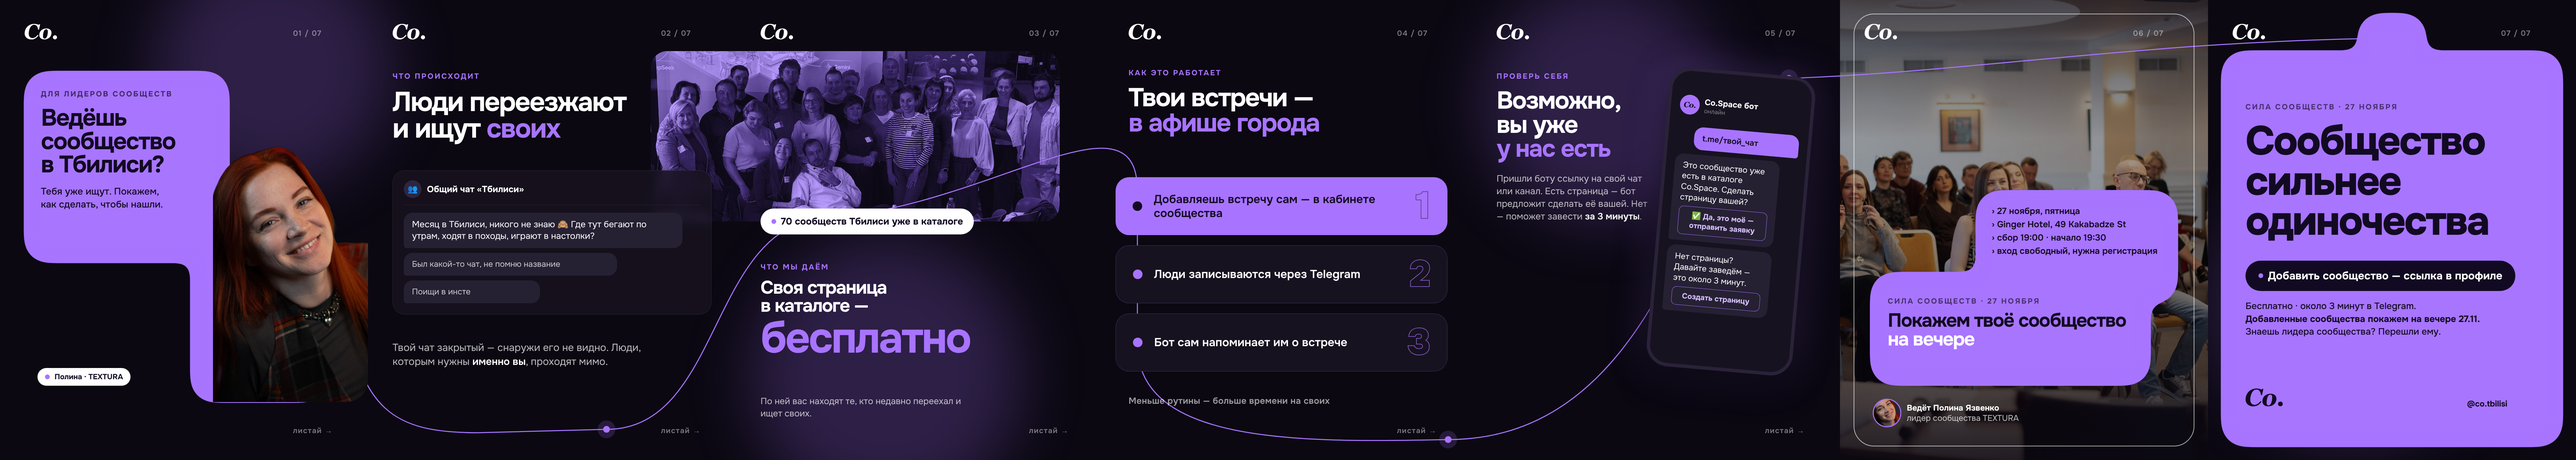
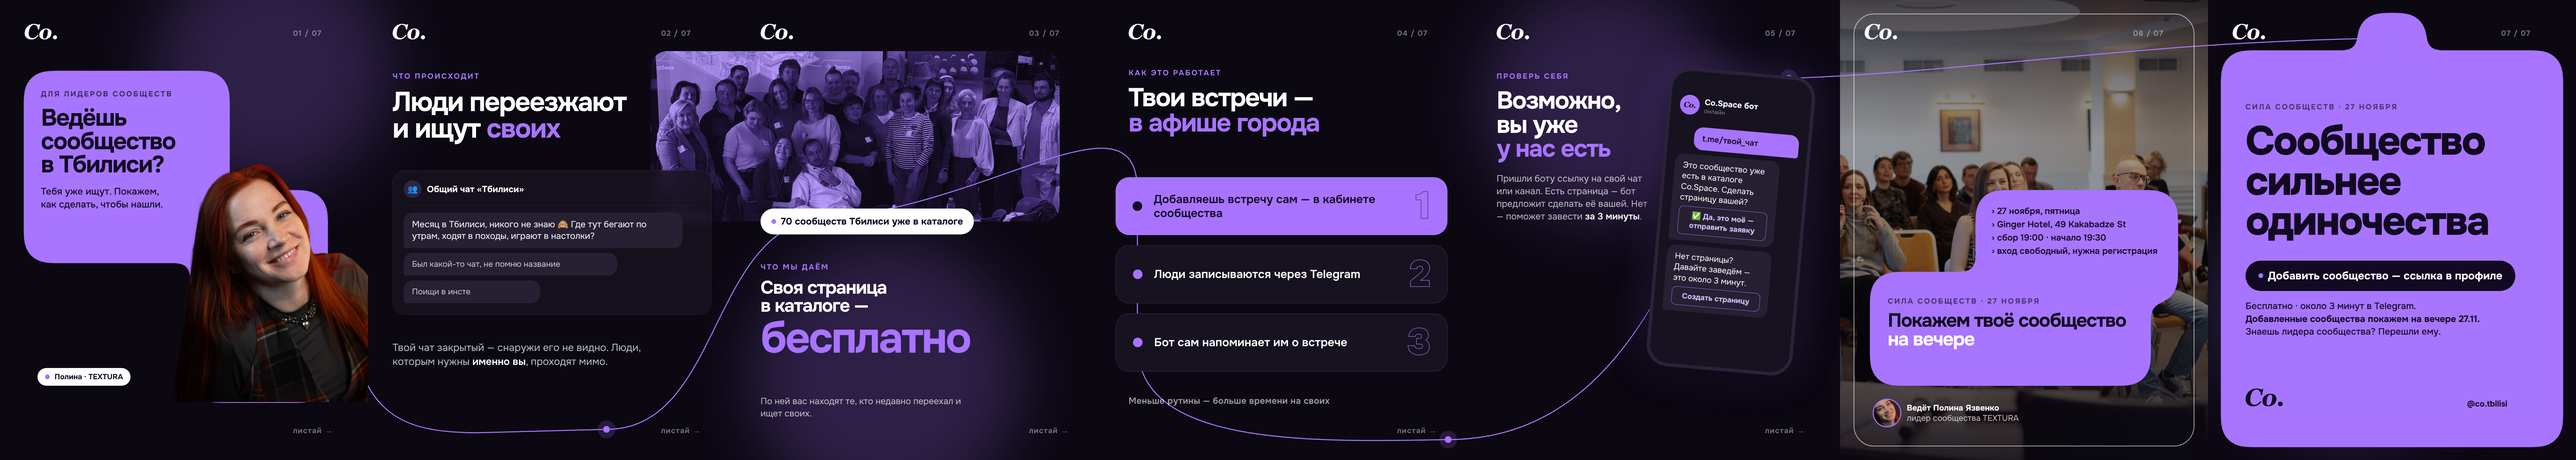
Лидеры, обложка: Полина крупнее, по бокам выходит за плашку, снизу обрезана по плашке
Claude-Session: https://claude.ai/code/session_01EUhV7vaX3V2s8FuVCAhgM5

Changed region(s): [[0.0624, 0.3111, 0.1561, 0.8711]]

diff --git a/creatives/src/poster/wide/leaders.html b/creatives/src/poster/wide/leaders.html
@@ -27,7 +27,7 @@ body{font-family:'Onest',sans-serif;background:#0B0812;color:#fff;position:relat
 </style></head><body><div class="glow" style="left:450px;top:-150px;width:700px;height:700px"></div><div class="glow" style="left:2200px;top:700px;width:800px;height:800px"></div><div class="glow" style="left:4350px;top:-50px;width:700px;height:700px"></div><div class="glow" style="left:6500px;top:500px;width:800px;height:800px"></div><svg class="a" style="left:0;top:0;z-index:3" width="7560" height="1350"><path d="M1010,900 C1060,1200 1150,1270 1400,1270 L1780,1260 C2120,1260 2080,660 2420,640 C2900,610 3338,250 3338,560 L3338,1010 C3338,1300 3800,1300 4250,1290 C4950,1290 5000,250 5250,230 C5800,210 6300,120 7020,112" stroke="#A874FF" stroke-width="3" fill="none" stroke-linecap="round"/><circle cx="1010" cy="900" r="26" fill="#A874FF" opacity=".18"/><circle cx="1010" cy="900" r="10" fill="#A874FF"/><circle cx="1780" cy="1260" r="26" fill="#A874FF" opacity=".18"/><circle cx="1780" cy="1260" r="10" fill="#A874FF"/><circle cx="2420" cy="640" r="26" fill="#A874FF" opacity=".18"/><circle cx="2420" cy="640" r="10" fill="#A874FF"/><circle cx="4250" cy="1290" r="26" fill="#A874FF" opacity=".18"/><circle cx="4250" cy="1290" r="10" fill="#A874FF"/><circle cx="5250" cy="230" r="26" fill="#A874FF" opacity=".18"/><circle cx="5250" cy="230" r="10" fill="#A874FF"/><circle cx="7020" cy="112" r="26" fill="#A874FF" opacity=".18"/><circle cx="7020" cy="112" r="10" fill="#A874FF"/></svg><svg class="a" style="left:0;top:0;z-index:2" width="7560" height="1350"><defs><filter id="goo"><feGaussianBlur in="SourceGraphic" stdDeviation="22"/><feColorMatrix values="1 0 0 0 0  0 1 0 0 0  0 0 1 0 0  0 0 0 36 -16"/></filter></defs><g filter="url(#goo)"><rect x="72" y="210" width="600" height="560" rx="64" fill="#A874FF"/><rect x="560" y="560" width="400" height="620" rx="64" fill="#A874FF"/></g></svg><div class="a" style="left:120px;top:262px;width:500px;z-index:5;color:#120A22">
 <div class="kick" style="color:#120A22;opacity:.7">Для лидеров сообществ</div>
 <div class="h" style="font-size:70px;margin-top:22px">Ведёшь<br>сообщество<br>в Тбилиси?</div>
-<div style="font-size:28px;line-height:1.35;margin-top:26px;font-weight:500">Тебя уже ищут. Покажем,<br>как сделать, чтобы нашли.</div></div><div class="cut" style="left:545px;top:430px;width:535px;height:750px;overflow:hidden;z-index:4;clip-path:path('M80,0 H535 V686 A64,64 0 0 1 471,750 H80 Z')"><img src="../polina2_cut.png" style="height:1238px"></div><div class="a" style="left:110px;top:1080px;z-index:6"><span class="pillw" style="font-size:22px;padding:12px 22px"><i></i>Полина · TEXTURA</span></div><div class="a" style="left:1152px;top:210px;z-index:5"><div class="kick">Что происходит</div>
+<div style="font-size:28px;line-height:1.35;margin-top:26px;font-weight:500">Тебя уже ищут. Покажем,<br>как сделать, чтобы нашли.</div></div><div class="cut" style="left:0;top:0;width:1080px;height:1180px;overflow:hidden;z-index:4"><img src="../polina3_cut.png" style="position:absolute;left:510px;top:470px;height:1150px"></div><div class="a" style="left:110px;top:1080px;z-index:6"><span class="pillw" style="font-size:22px;padding:12px 22px"><i></i>Полина · TEXTURA</span></div><div class="a" style="left:1152px;top:210px;z-index:5"><div class="kick">Что происходит</div>
 <div class="h" style="font-size:80px;margin-top:22px">Люди переезжают<br>и ищут <em>своих</em></div></div><div class="a glass" style="left:1152px;top:500px;width:936px;padding:28px 32px 18px;z-index:5">
 <div style="display:flex;align-items:center;gap:16px;padding-bottom:20px;margin-bottom:22px;border-bottom:1.5px solid rgba(255,255,255,.08)">
 <div style="width:52px;height:52px;border-radius:50%;background:#2E2640;display:flex;align-items:center;justify-content:center;font-size:24px">👥</div>

diff --git a/creatives/src/poster/build_wide.py b/creatives/src/poster/build_wide.py
@@ -91,8 +91,8 @@ els.append(f'''<div class="a" style="left:120px;top:262px;width:500px;z-index:5;
 <div class="kick" style="color:{INK};opacity:.7">Для лидеров сообществ</div>
 <div class="h" style="font-size:70px;margin-top:22px">Ведёшь<br>сообщество<br>в Тбилиси?</div>
 <div style="font-size:28px;line-height:1.35;margin-top:26px;font-weight:500">Тебя уже ищут. Покажем,<br>как сделать, чтобы нашли.</div></div>''')
-els.append('<div class="cut" style="left:545px;top:430px;width:535px;height:750px;overflow:hidden;z-index:4;'
-           'clip-path:path(\'M80,0 H535 V686 A64,64 0 0 1 471,750 H80 Z\')"><img src="../polina2_cut.png" style="height:1238px"></div>')
+els.append('<div class="cut" style="left:0;top:0;width:1080px;height:1180px;overflow:hidden;z-index:4">'
+           '<img src="../polina3_cut.png" style="position:absolute;left:510px;top:470px;height:1150px"></div>')
 els.append(f'<div class="a" style="left:110px;top:1080px;z-index:6"><span class="pillw" style="font-size:22px;padding:12px 22px"><i></i>Полина · TEXTURA</span></div>')
 
 # ---------- 2. Проблема ----------
